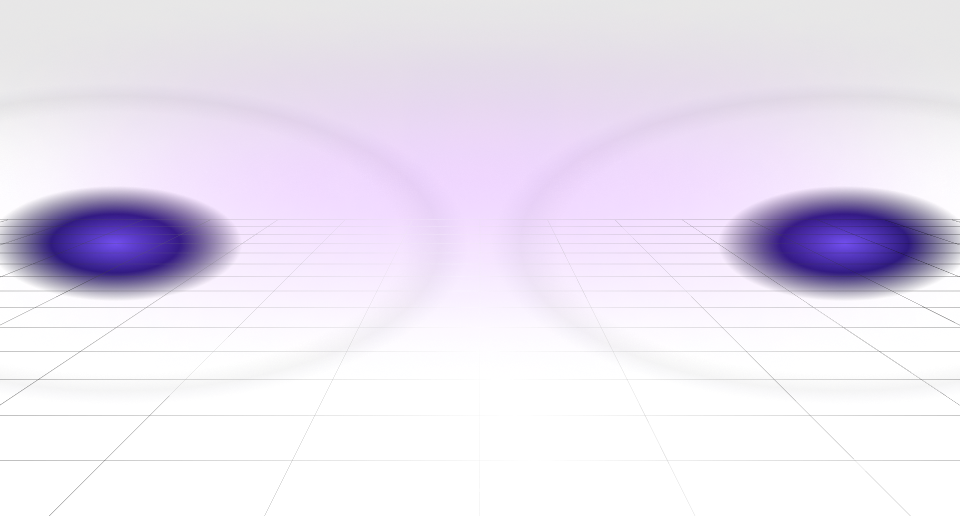
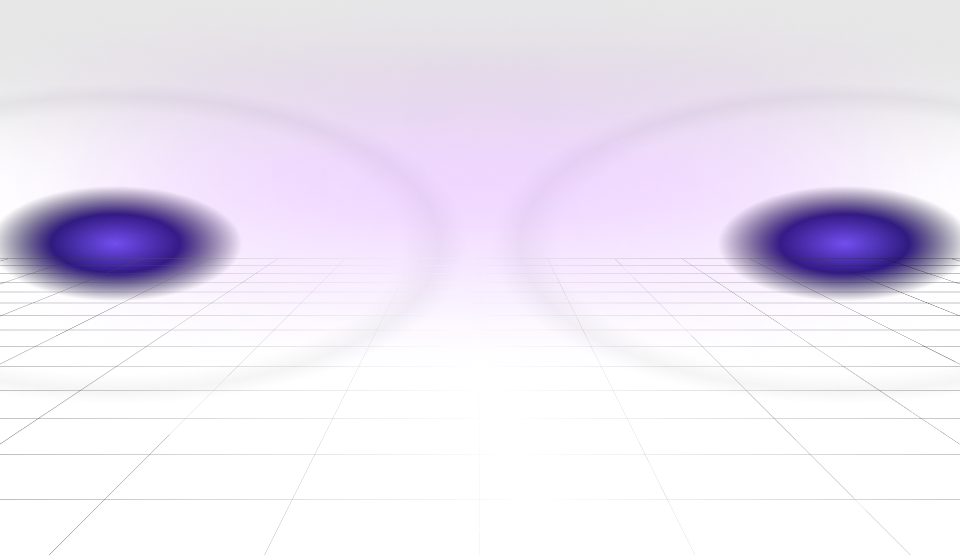
adding bg image

diff --git a/api/index.tsx b/api/index.tsx
@@ -105,7 +105,7 @@ app.image('/initial-image', (c) => {
     image: (
       <Box
           alignVertical="center"
-          backgroundImage="url(https://raw.githubusercontent.com/Mr94t3z/talent-passport/refs/heads/master/public/union.png)"
+          backgroundImage="url(https://raw.githubusercontent.com/Mr94t3z/talent-passport/refs/heads/master/public/gradient-home-page-background.png)"
           backgroundColor="bg"
           justifyContent="center"
           paddingTop="52"
